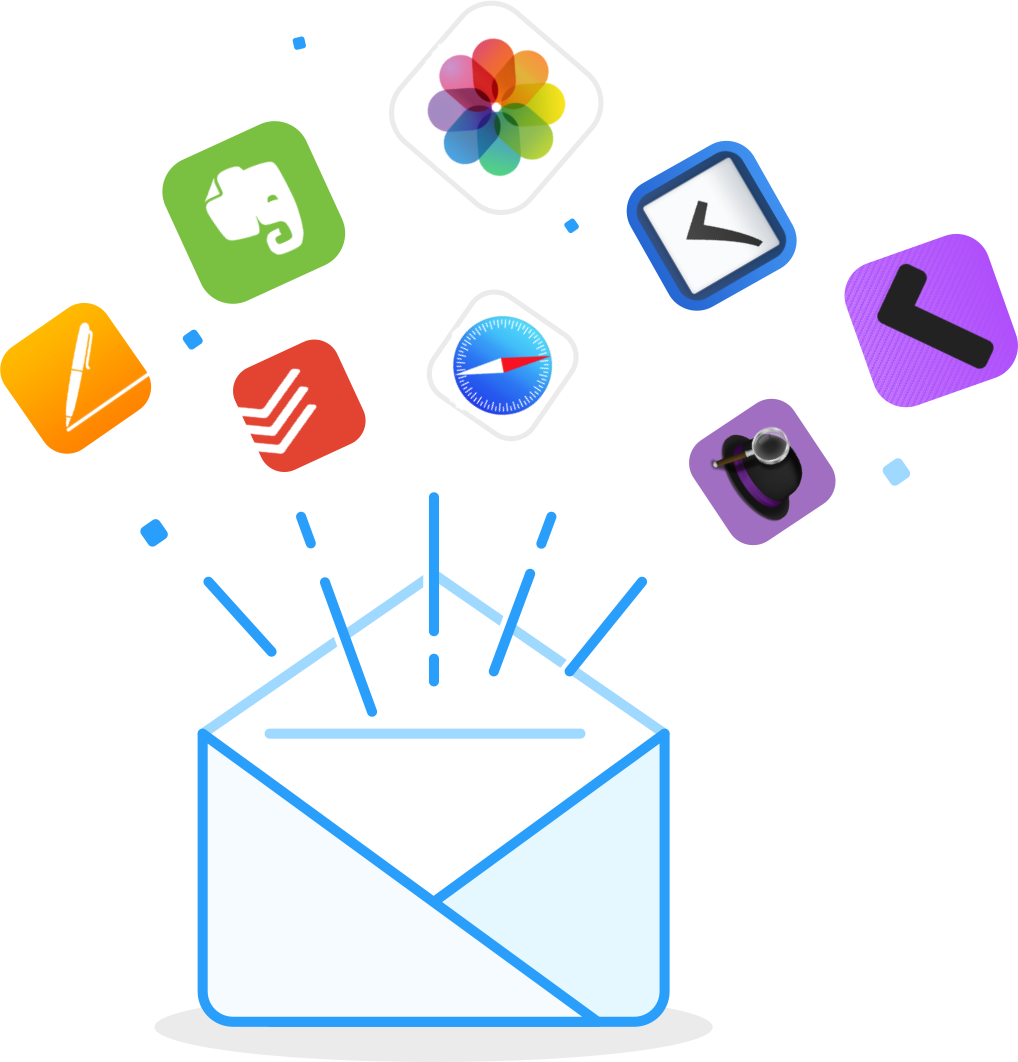
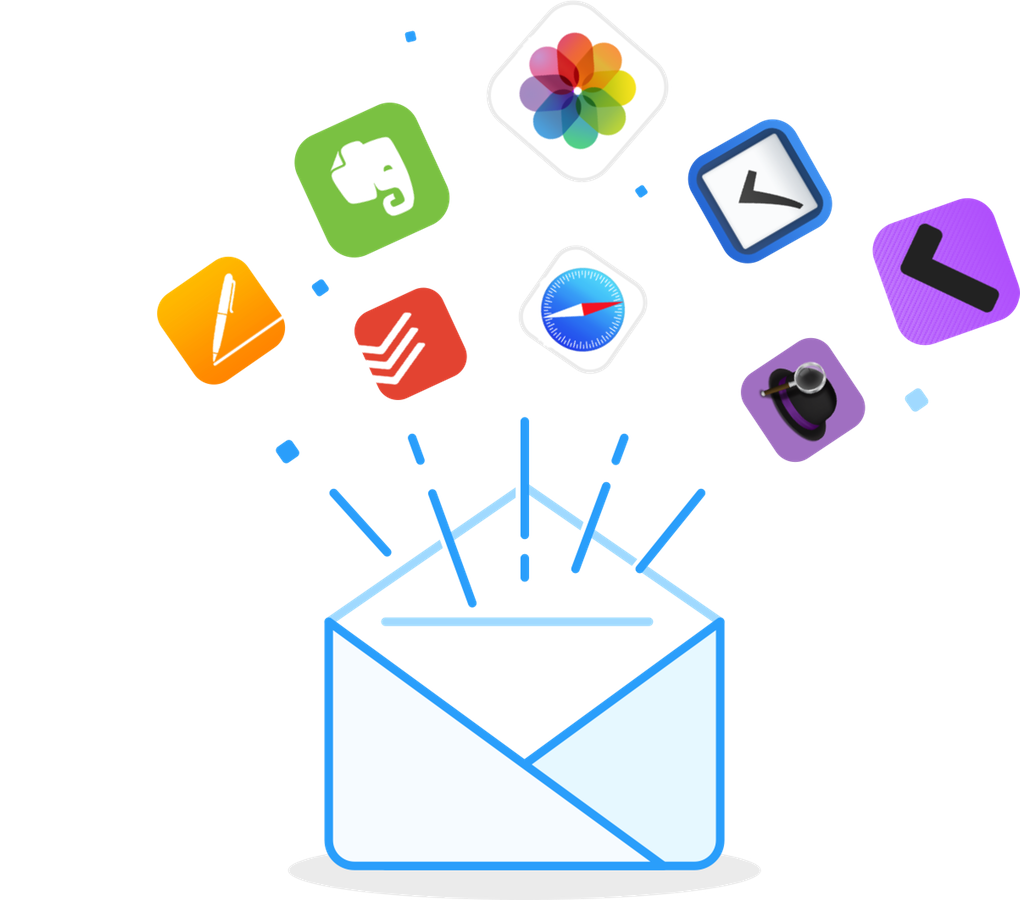
Updated screenshots on landing page.

diff --git a/assets/css/screen.css b/assets/css/screen.css
@@ -109,8 +109,9 @@ UL.columns{width:951px;list-style:none;}
 UL.columns LI{float:left;width:317px;min-height:225px;text-align:center;margin:0 0 55px 0;}
 UL.columns LI P{margin:0 20px;}
 IMG.plug{display:block;margin:0 0 30px 0;width:317px;height:115px;}
-.illo{max-width:509px;}
-.illo IMG{width:100%;margin:40px 0 40px 0;}
+.illo{max-width:510px;}
+.illo IMG{width:100%;margin:40px 0 90px 0;}
+.illo.integration IMG{width:100%;margin:90px 0 90px 0;}
 
 
 /* -------- Testimonials -------- */
